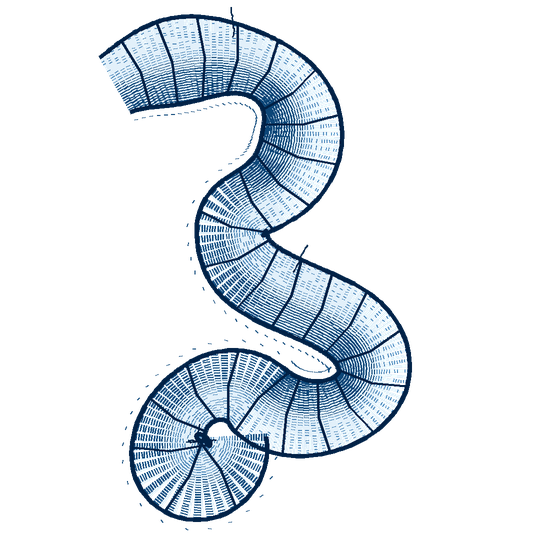
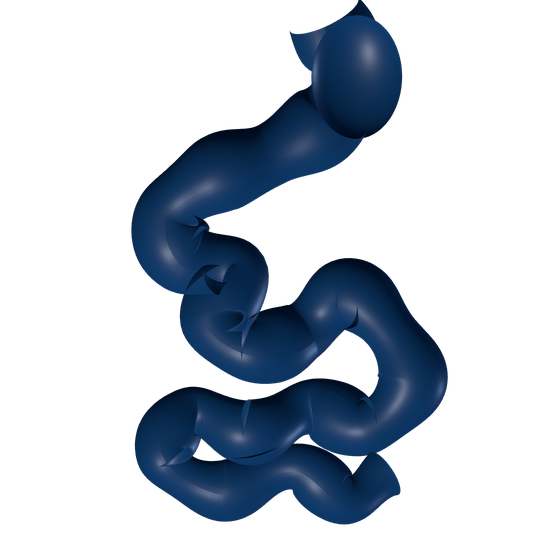
Intestine rebuilt as a procedural Three.js model from the reference photo (first pass)

diff --git a/tools/intestine/render.html b/tools/intestine/render.html
@@ -1,0 +1,43 @@
+<!doctype html><html><head><meta charset="utf-8"><style>html,body{margin:0;background:transparent}canvas{display:block}</style>
+<script type="importmap">{"imports":{"three":"https://cdn.jsdelivr.net/npm/three@0.160.0/build/three.module.js"}}</script></head>
+<body><script type="module">
+import * as THREE from 'three';
+// Reference: small intestine (stomach, duodenum loop, jejunum/ileum coils) from small_intestine_2.jpg.
+// Procedural tube along a control path; radius varies with the bowel's folds; deep blue material.
+const W=1120,H=1120;
+const renderer=new THREE.WebGLRenderer({antialias:true,alpha:true,preserveDrawingBuffer:true});
+renderer.setSize(W,H);renderer.setClearColor(0x000000,0);document.body.appendChild(renderer.domElement);
+const scene=new THREE.Scene();
+const cam=new THREE.PerspectiveCamera(30,1,0.1,100);cam.position.set(0,0.2,9.5);cam.lookAt(0,-0.1,0);
+scene.add(new THREE.HemisphereLight(0xdfeaff,0x061a33,1.4));
+const key=new THREE.DirectionalLight(0xffffff,1.6);key.position.set(3,4,6);scene.add(key);
+const rim=new THREE.DirectionalLight(0x9fc7ff,0.7);rim.position.set(-4,1,-3);scene.add(rim);
+// Deep blue material (same family as the organ art)
+const mat=new THREE.MeshStandardMaterial({color:0x0d3f6e,roughness:0.42,metalness:0.05,emissive:0x021a33,emissiveIntensity:0.25});
+// Path: stomach (top, pouch) -> duodenum loop -> jejunum/ileum coils (lower, loops)
+const pts=[
+ [0.6,3.4,0],[0.9,2.7,0.1],[0.7,2.0,0.2],[-0.1,1.5,0.1],[-0.9,1.2,0.0],[-1.5,0.7,0.2],[-1.3,0.1,0.3],
+ [-0.6,-0.1,0.3],[-0.9,-0.8,0.1],[-0.4,-1.2,0.0],[0.3,-0.9,0.4],[0.9,-0.4,0.3],[1.5,-0.9,0.1],[1.8,-1.6,0.2],
+ [1.2,-2.2,0.3],[0.4,-1.9,0.6],[-0.4,-2.3,0.2],[-1.2,-2.0,0.3],[-1.6,-2.7,0.0],[-0.8,-3.1,0.2],[0.2,-2.8,0.1],[0.9,-3.2,0.3],[1.4,-2.8,0.5]
+];
+const K=0.66;const curve=new THREE.CatmullRomCurve3(pts.map(p=>new THREE.Vector3(p[0]*K,p[1]*K+0.05,p[2]*K)),false,"catmullrom",0.5);
+// Radius: stomach and duodenum wider, coils thinner, with haustral bulges
+function radius(t){const base=0.34-0.12*t;const fold=0.04*Math.sin(t*Math.PI*26);return base+fold;}
+const geo=new THREE.TubeGeometry(curve,700,1,40,false);
+const pos=geo.attributes.position;const n=geo.parameters.radialSegments;
+const frames=curve.computeFrenetFrames(700,false);
+for(let i=0;i<=700;i++){
+  const t=i/700;const c=curve.getPointAt(t);const r=radius(t)*1.0;
+  for(let j=0;j<=n;j++){
+    const idx=i*(n+1)+j;const N=frames.normals[i],B=frames.binormals[i];
+    const a=2*Math.PI*j/n;
+    pos.setXYZ(idx,c.x+r*(Math.cos(a)*N.x+Math.sin(a)*B.x),c.y+r*(Math.cos(a)*N.y+Math.sin(a)*B.y),c.z+r*(Math.cos(a)*N.z+Math.sin(a)*B.z));
+  }
+}
+geo.computeVertexNormals();
+scene.add(new THREE.Mesh(geo,mat));
+// Stomach pouch: a soft ellipsoid at the top
+const pouch=new THREE.Mesh(new THREE.SphereGeometry(0.62*K,64,48),mat);pouch.scale.set(1.0,1.35,0.8);pouch.position.set(1.05*K,2.55*K+0.05,0);scene.add(pouch);
+renderer.render(scene,cam);
+window.__done=true;
+</script></body></html>

diff --git a/UX_LAWS_AUDIT.md b/UX_LAWS_AUDIT.md
@@ -298,3 +298,10 @@ Checks:
 
 - Replaced the simple SVG with an engraving-style intestine (`assets/art/intestine.webp`, 560 x 560, transparent). It uses the same deep blue ink as the other organ art.
 - Drawn in code (Python imaging). The `/hyperframes` skill is built for video, so it was not used to draw the still image. A medical or licensed anatomy image would still be better for a clinical audience.
+
+## Change on 2026-11-09: intestine from the reference photo (first pass)
+
+- Source reference: `D:\Downloads\small_intestine_2.jpg` (stomach, duodenal loop, coiled small bowel).
+- Built as a procedural Three.js model (`tools/intestine/render.html`): a tube along a control path with haustral-style radius variation, a stomach pouch, and deep blue material. Rendered in headless Chrome at 1120 px and saved to `assets/art/intestine.png` and `.webp` (560 px).
+- Not done: the full img2threejs staged gates (state init, sculpt spec, pass reviews, comparison sheets). This is a first pass.
+- Known defects: small flaps where the tube bends, and no haustral folds. Next pass: fix the frame twist at bends, and add folds and the duodenum's C-curve.
